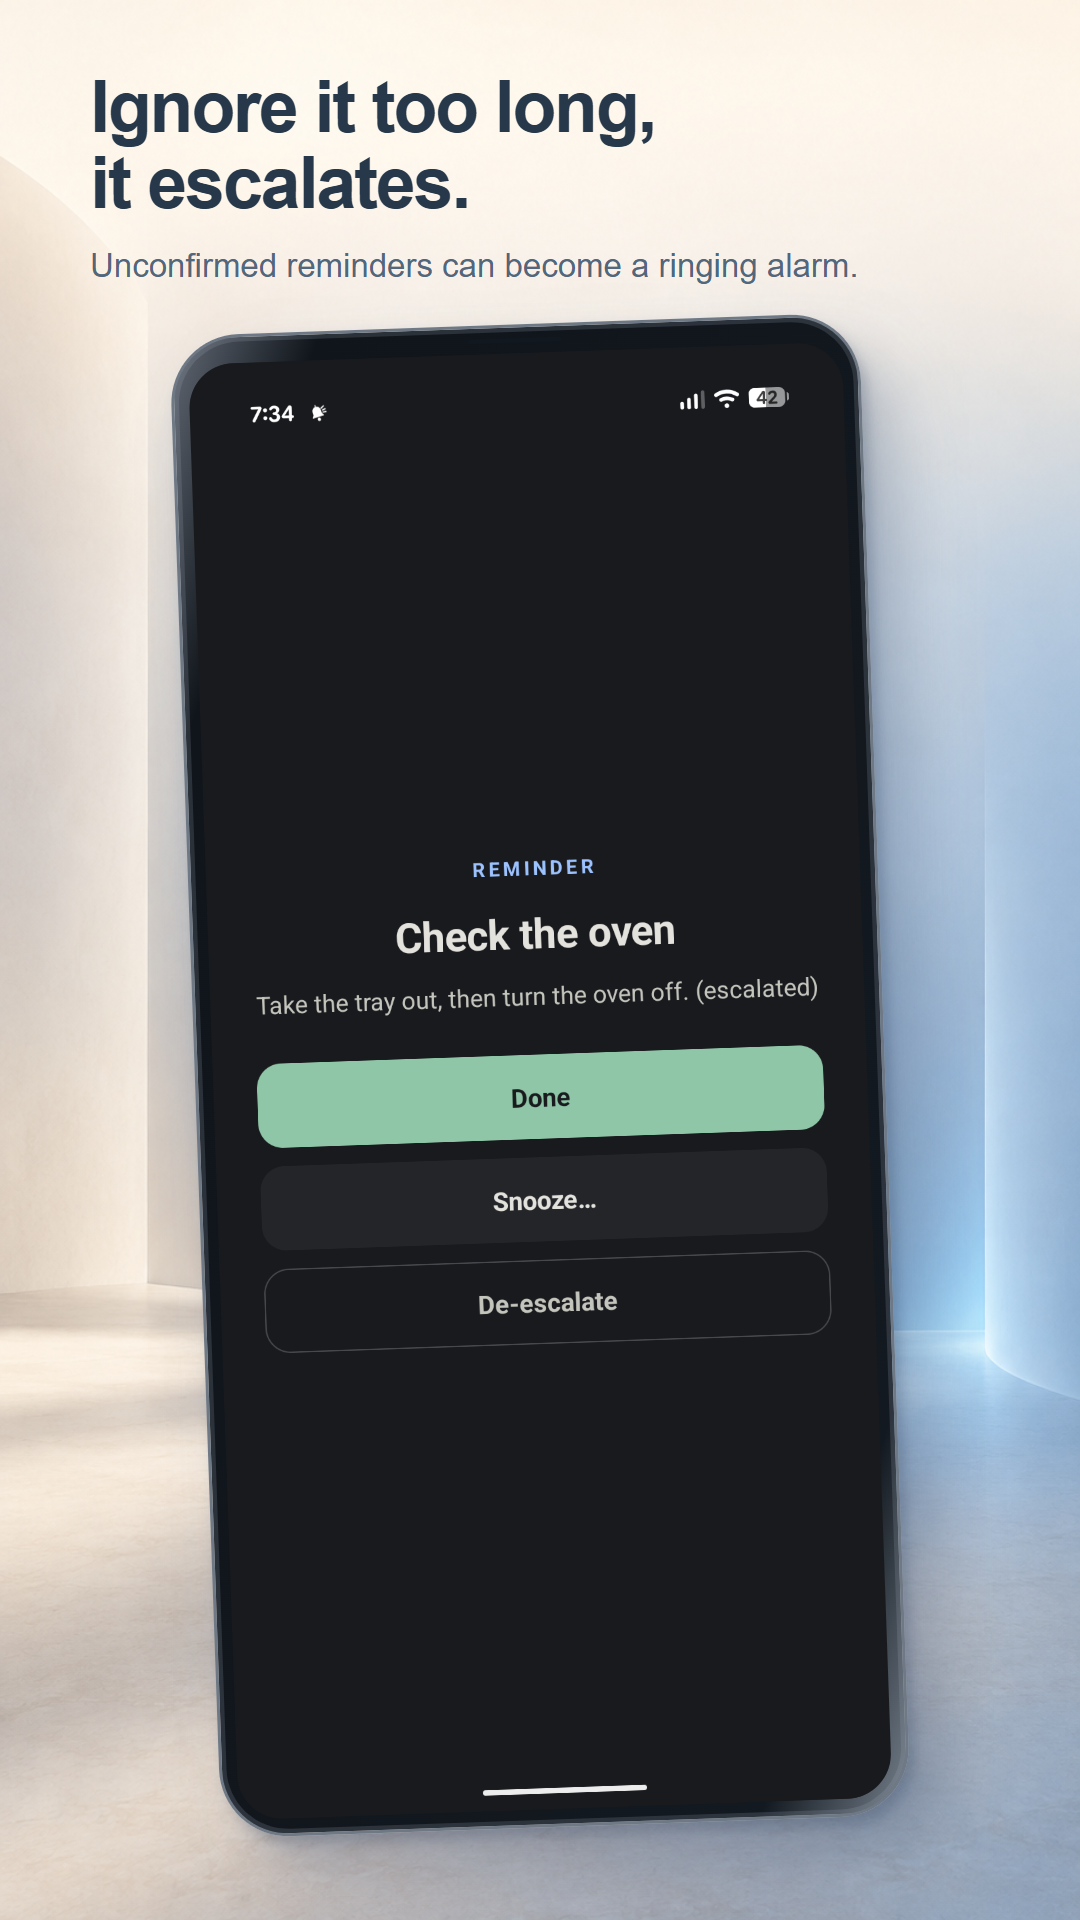
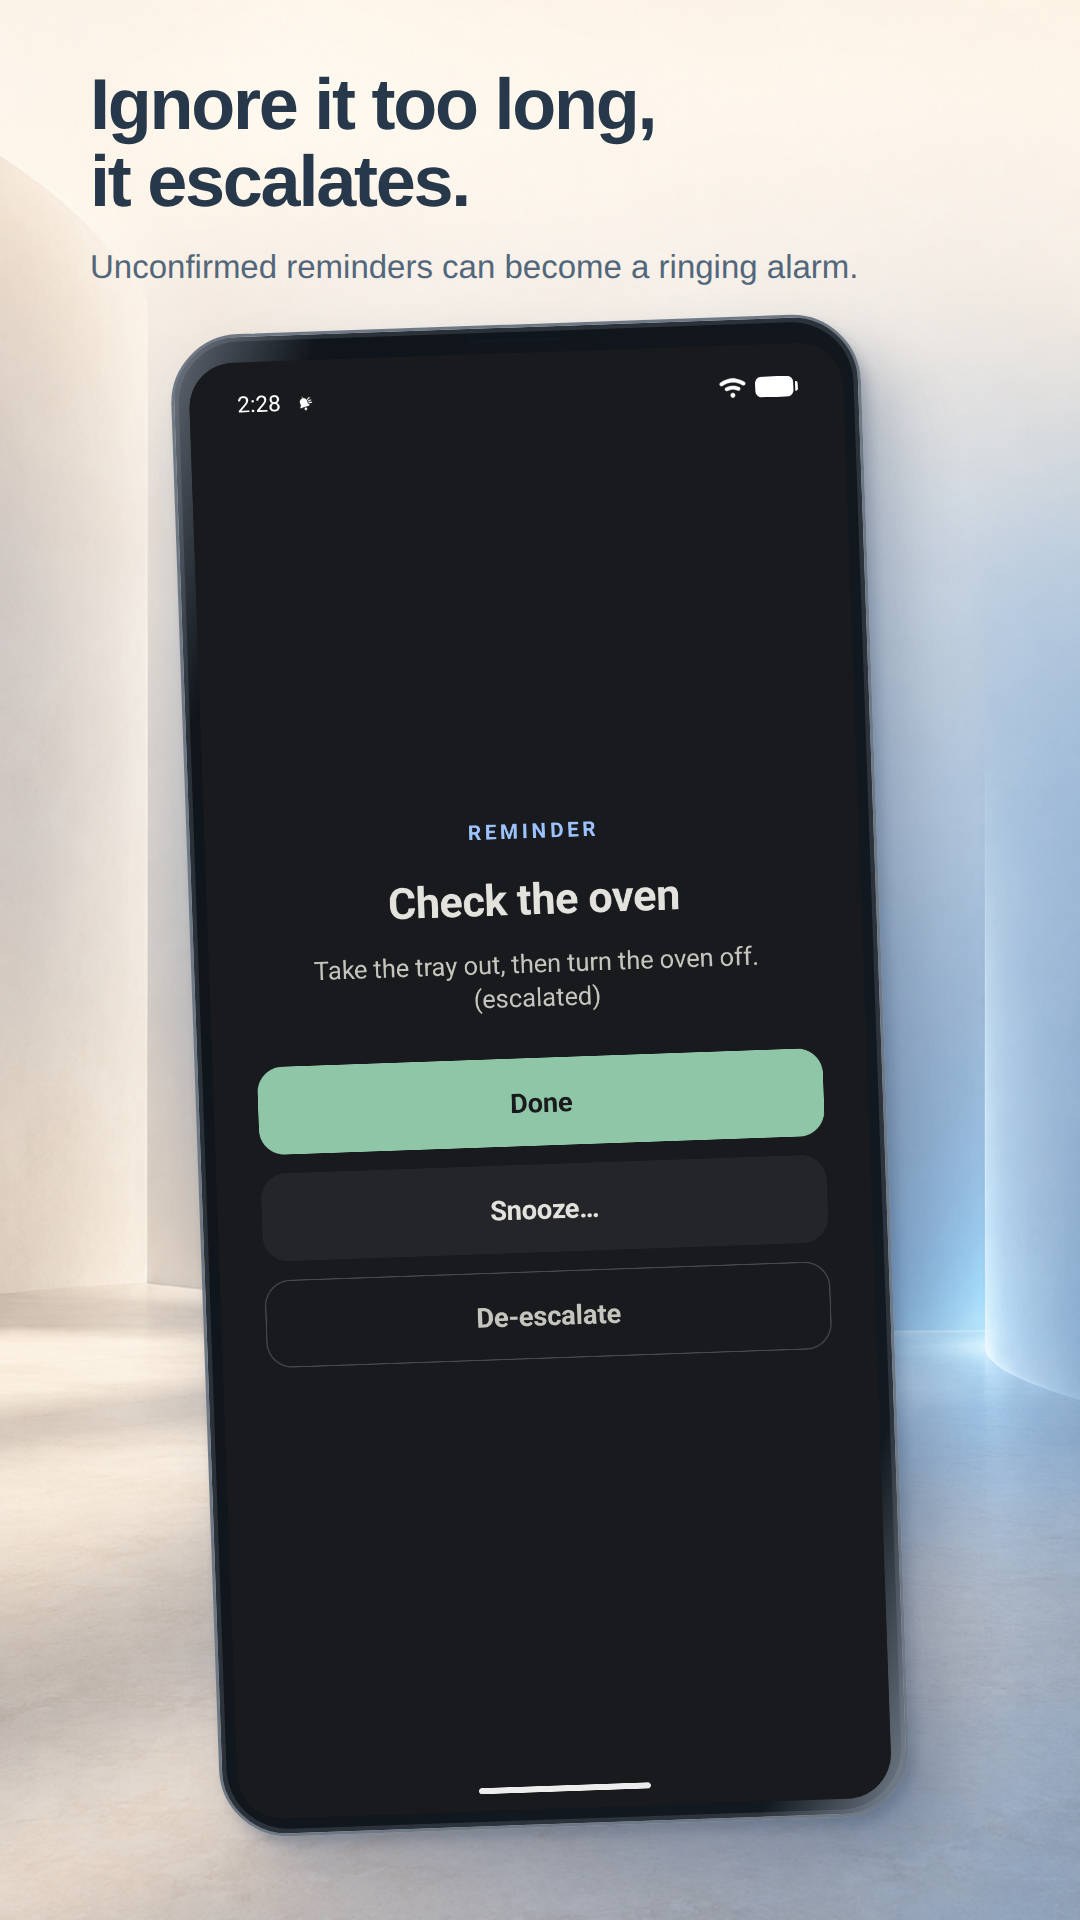
Refresh the Google Play screenshots in dark mode
All eight Play images are recaptured in Enjoy Dark from the current app
on the shared emulator with the synthetic demo account, and the README
shows the dark Current view. The shade no longer shows a real network
name. The provenance note records every temporary emulator change and
its restoration.

diff --git a/store-assets/raw/android/native/README.md b/store-assets/raw/android/native/README.md
@@ -1,42 +1,23 @@
 # Native Android capture provenance
 
-Captured October 10, 2026 on the maintainer's test phone using native source `0ed773f` for the shade and alarm. The six app views use
-the theme-aware status icon and gesture bar fix committed as `8c9e50e`. The separate direct-debug package is `ca.persistent.app`, with the
-local debug version label 0.21.1. It loads the local development app through an
-ADB reverse connection and is signed in only to the protected synthetic demo
-account. The installed Store package and its signed-in personal account were
-preserved.
+Captured on November 19, 2026, between 2:19 p.m. and 2:28 p.m. Toronto time, on the shared `android-vm` emulator (API 37 Google Play image, Pixel 7 profile, 1080 x 2400), not on a personal phone. The web app came from the development working tree at `b504c98` (Persistent 0.31.1, React 19, web-app-kit 0.2.0), loaded by the direct-debug package `ca.persistent.app` through `adb reverse` to the local Vite server. The app was installed fresh for the session and signed in only to the protected synthetic account `demo@example.test`, prepared with `npm run shots:prepare`.
 
-- `00-current-light.png`, `03-checklist-dark.png`, `04-medication-light.png`,
-  `05-sharing-dark.png`, `06-notes-light.png`, and `07-assigned-dark.png`: actual
-  full-display app screens with the real status area and gesture bar. Light themes
-  use dark system icons, and dark themes use light icons. Only Persistent's
-  notification icon is present. The sharing recipient is staged in an unsaved
-  draft, and the medication editor was not saved.
-- `01-notification-shade.png`: actual Android shade with four distinct demo
-  reminders, and the plant reminder's real Done and Snooze controls expanded.
-  The maintainer approved retaining the full shade, including the Wi-Fi network name.
-- `02-alarm-dark.png`: actual native escalation of a temporary "Check the oven"
-  reminder, created through the ordinary authenticated local API with Persistent
-  notifications and a one-minute escalation. It remained unconfirmed and then
-  showed the real alarm with Done, Snooze, and De-escalate. Its native appearance
-  was synchronized from Enjoy Dark. The demo app was force-stopped promptly after
-  capture, and only that newly created reminder was deleted. The replacement
-  capture has only Persistent's notification icon, with no Paseo or other app icon.
+All eight captures are Enjoy Dark, with 12-hour times and doodles off. Notifications, display over other apps and background running were granted through the ordinary Android screens.
 
-All eight source captures are 960 x 2142. They were reencoded from opaque RGBA to
-24-bit RGB through `convert-store-capture.ps1`, without cropping, scaling, or
-retouching. Final phone compositions were captured in the shared Paseo browser
-at 720 x 1280 CSS pixels and DPR 1.5, producing 1080 x 1920 exports.
+- `00-current-dark.png`, `03-checklist-dark.png`, `04-medication-dark.png`, `05-sharing-dark.png`, `06-notes-dark.png` and `07-assigned-dark.png`: actual full-display app screens. The sharing recipient is staged in an unsaved draft, which was then discarded; the medication editor was not saved; no checklist item or Done was pressed.
+- `01-notification-shade-dark.png`: the actual Android shade with four distinct demo reminders and the plant reminder's real Done and Snooze controls expanded. The Wi-Fi tile shows the emulator's generic network ("Demo SSID" under SystemUI demo mode). The emulator has no SIM, so a "Mobile data: Unavailable" tile is visible.
+- `02-alarm-dark.png`: the actual native `AlarmActivity` for a temporary "Check the oven" reminder (body "Take the tray out, then turn the oven off."), created through the ordinary authenticated API with Persistent notifications and a one-minute escalation. It escalated for real. Because the emulator has no audio output, the service did not raise the alarm surface by itself, so it was opened by tapping the alarm notification, whose content intent is the same activity. Done, Snooze and De-escalate were not pressed. The reminder was then deleted and the app force-stopped.
 
-No reminder was completed by a capture action. Notifications and overlay access
-were enabled only for the demo package using ordinary Android permission screens.
-Exact-alarm and full-screen-intent readiness also reported enabled. This session
-observed native notification actions and a real one-minute escalation into the
-alarm surface; it did not
-qualify offline delivery, lock-screen delivery, or swipe-return reliability.
+Session changes on the emulator, each recorded first and restored before it was stopped:
 
-Cleanup: demo app force-stopped, temporary ADB forward/reverse mappings removed,
-on-device inspection XML removed, owned keepalive stopped, and phone returned to
-Paseo. The original 120000 ms display timeout was verified unchanged. The separate
-demo app remains installed and stopped for future refreshes.
+| Change                                    | During capture                                                                                                 | Restored to                    |
+| ----------------------------------------- | -------------------------------------------------------------------------------------------------------------- | ------------------------------ |
+| Device time zone                          | America/Toronto                                                                                                | Etc/UTC                        |
+| System night mode                         | On                                                                                                             | Off                            |
+| SystemUI demo mode (`sysui_demo_allowed`) | On: clock set to the real time at each capture, full battery not charging, Wi-Fi at full signal, mobile hidden | Exited; `sysui_demo_allowed` 0 |
+| `adb reverse tcp:5173`                    | To the local Vite server                                                                                       | Removed                        |
+| `ca.persistent.app`                       | Installed                                                                                                      | Uninstalled                    |
+
+Demo mode's "hide notification icons" setting has no effect on this Android version, so Persistent's own notification icon is visible beside the clock; no other app's icon is present. Two unrelated notifications were dismissed with approval before capturing: Android's "Set a screen lock" suggestion and another test app's pairing notice. The emulator was kept awake by a periodic wake key event, with no display or lock setting changed.
+
+The captures were reencoded from opaque RGBA to 24-bit RGB without cropping, scaling or retouching. The Play compositions were rendered by `npm run shots:render` and captured in headless Chromium at 720 x 1280 CSS pixels and a device scale of 1.5, producing 1080 x 1920 exports.

diff --git a/store-assets/play/README.md b/store-assets/play/README.md
@@ -6,19 +6,19 @@ Eight 1080 x 1920 RGB PNGs, with real app captures and synthetic data. Includes 
 
 Every reminder waits for your confirmation.
 
-![Enjoy Light Current view with plants, puppy, and a part-completed morning checklist.](00-current-light.png)
+![Enjoy Dark Current view with plants, puppy, and a part-completed morning checklist.](00-current-dark.png)
 
 ## Swipe it away? It comes back.
 
 Reminders return until you confirm they're done.
 
-![Real Pixel 9 Pro notification shade with four distinct synthetic reminders and expanded plant reminder Done and Snooze actions.](01-notification-shade.png)
+![Real Android notification shade, in dark mode, with four distinct synthetic reminders and the plant reminder's Done and Snooze actions expanded.](01-notification-shade-dark.png)
 
 ## Ignore it too long, it escalates.
 
 Unconfirmed reminders can become a ringing alarm.
 
-![Real Pixel 9 Pro escalated alarm for the synthetic Check the oven reminder, with native Done, Snooze, and De-escalate controls.](02-alarm-dark.png)
+![Real Android escalated alarm, in dark mode, for the synthetic Check the oven reminder, with native Done, Snooze, and De-escalate controls.](02-alarm-dark.png)
 
 ## Finish the task. Then mark it done.
 
@@ -30,7 +30,7 @@ Checklists, notes, and controls in one clear view.
 
 Medication reminders with names and doses.
 
-![Synthetic vitamin D reminder editor in Enjoy Light with a 1000 IU dose.](04-medication-light.png)
+![Synthetic vitamin D reminder editor in Enjoy Dark with a 1000 IU dose.](04-medication-dark.png)
 
 ## Share the reminder. Stay on the same page.
 
@@ -42,7 +42,7 @@ Plan together, or assign a task to one person.
 
 Notes and checklists, without an alarm.
 
-![Enjoy Light Notes view showing a trip-packing checklist.](06-notes-light.png)
+![Enjoy Dark Notes view showing a trip-packing checklist.](06-notes-dark.png)
 
 ## Know when it is done.
 

diff --git a/README.md b/README.md
@@ -32,7 +32,7 @@
 
 <!-- These are the same synthetic-data mockups used by the Play listing. -->
 <p align="center">
-  <img src="store-assets/play/00-current-light.png" alt="Current reminders in Enjoy Light" height="400">
+  <img src="store-assets/play/00-current-dark.png" alt="Current reminders in Enjoy Dark" height="400">
   <img src="store-assets/play/03-checklist-dark.png" alt="Checklist and reminder controls in Enjoy Dark" height="400">
   <img src="store-assets/play/05-sharing-dark.png" alt="Sharing dialog with a staged sample recipient in Enjoy Dark" height="400">
 </p>
